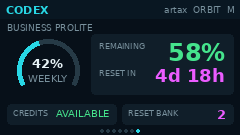
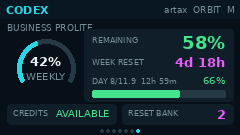
Add daily Codex usage pacing

diff --git a/jetson_stats_pitft/codex_usage.py b/jetson_stats_pitft/codex_usage.py
@@ -2,7 +2,7 @@
 
 from __future__ import annotations
 
-from dataclasses import dataclass
+from dataclasses import dataclass, replace
 import json
 import logging
 import os
@@ -36,6 +36,10 @@ class CodexUsage:
     limit_reached: str = ""
     updated_at: float = 0.0
     error: str = "waiting for Codex"
+    daily_allowance: float = 0.0
+    daily_used: float = 0.0
+    daily_percent: float = 0.0
+    daily_resets_at: float = 0.0
 
 
 def _window_label(window: dict[str, Any], fallback: str) -> str:
@@ -98,6 +102,77 @@ def parse_usage(result: dict[str, Any], now: float | None = None) -> CodexUsage:
     )
 
 
+class DailyBudgetTracker:
+    """Persist and calculate an even 24-hour budget for the weekly window."""
+
+    def __init__(self, path: Path | None = None):
+        state_root = Path(
+            os.environ.get(
+                "JETSON_PITFT_STATE_DIR",
+                Path.home() / ".local/state/jetson-stats-pitft",
+            )
+        )
+        self.path = path or state_root / "codex-daily-budget.json"
+        self._state = self._load()
+
+    def _load(self) -> dict[str, float]:
+        try:
+            data = json.loads(self.path.read_text(encoding="utf-8"))
+            if not isinstance(data, dict):
+                return {}
+            return {key: float(value) for key, value in data.items()}
+        except (OSError, ValueError, TypeError, json.JSONDecodeError):
+            return {}
+
+    def _save(self) -> None:
+        try:
+            self.path.parent.mkdir(parents=True, exist_ok=True)
+            temporary = self.path.with_suffix(".tmp")
+            temporary.write_text(
+                json.dumps(self._state, sort_keys=True) + "\n",
+                encoding="utf-8",
+            )
+            temporary.chmod(0o600)
+            os.replace(temporary, self.path)
+        except OSError as exc:
+            LOG.warning("Could not persist Codex daily budget: %s", exc)
+
+    def apply(self, usage: CodexUsage, now: float | None = None) -> CodexUsage:
+        """Attach today's spend versus an evenly divided remaining allowance."""
+        current_time = time.time() if now is None else now
+        weekly = next((window for window in usage.windows if window.label == "WEEKLY"), None)
+        if weekly is None or weekly.resets_at <= current_time:
+            return usage
+
+        state = self._state
+        same_window = abs(state.get("weekly_resets_at", 0) - weekly.resets_at) < 1
+        in_period = current_time < state.get("daily_resets_at", 0)
+        monotonic_usage = weekly.used_percent >= state.get("used_at_start", 0)
+        if not (same_window and in_period and monotonic_usage):
+            remaining_days = max(1.0, (weekly.resets_at - current_time) / 86400.0)
+            allowance = max(0.0, 100.0 - weekly.used_percent) / remaining_days
+            state = {
+                "weekly_resets_at": weekly.resets_at,
+                "daily_started_at": current_time,
+                "daily_resets_at": min(weekly.resets_at, current_time + 86400.0),
+                "used_at_start": float(weekly.used_percent),
+                "daily_allowance": allowance,
+            }
+            self._state = state
+            self._save()
+
+        daily_used = max(0.0, weekly.used_percent - state["used_at_start"])
+        allowance = state["daily_allowance"]
+        daily_percent = 100.0 * daily_used / allowance if allowance > 0 else 100.0
+        return replace(
+            usage,
+            daily_allowance=allowance,
+            daily_used=daily_used,
+            daily_percent=daily_percent,
+            daily_resets_at=state["daily_resets_at"],
+        )
+
+
 class CodexUsageReader:
     """Keep one app-server alive and refresh account usage once per minute."""
 
@@ -109,6 +184,7 @@ class CodexUsageReader:
         self._process: subprocess.Popen[str] | None = None
         self._stop = threading.Event()
         self._thread: threading.Thread | None = None
+        self._budget = DailyBudgetTracker()
 
     @staticmethod
     def _codex_binary() -> str:
@@ -188,13 +264,15 @@ class CodexUsageReader:
             self._send(process, {
                 "id": 1,
                 "method": "initialize",
-                "params": {"clientInfo": {"name": "jetson-stats-pitft", "version": "0.6.0"}},
+                "params": {"clientInfo": {"name": "jetson-stats-pitft", "version": "0.7.0"}},
             })
             self._receive(process, 1)
             request_id = 2
             while not self._stop.is_set():
                 self._send(process, {"id": request_id, "method": "account/rateLimits/read"})
-                usage = parse_usage(self._receive(process, request_id))
+                now = time.time()
+                usage = parse_usage(self._receive(process, request_id), now=now)
+                usage = self._budget.apply(usage, now=now)
                 with self._lock:
                     self._latest = usage
                 request_id += 1

diff --git a/tests/test_codex_usage.py b/tests/test_codex_usage.py
@@ -1,8 +1,15 @@
 """Tests for reducing local Codex usage responses to LCD-safe data."""
 
 import unittest
+from pathlib import Path
+import tempfile
 
-from jetson_stats_pitft.codex_usage import parse_usage
+from jetson_stats_pitft.codex_usage import (
+    CodexUsage,
+    DailyBudgetTracker,
+    UsageWindow,
+    parse_usage,
+)
 
 
 class CodexUsageTests(unittest.TestCase):
@@ -55,6 +62,68 @@ class CodexUsageTests(unittest.TestCase):
         self.assertEqual(usage.credits, "UNLIMITED")
         self.assertFalse(usage.ordinary_allowed)
         self.assertEqual(usage.limit_reached, "PRIMARY")
+
+
+class DailyBudgetTests(unittest.TestCase):
+    def _usage(self, used: int, weekly_reset: float) -> CodexUsage:
+        return CodexUsage(
+            windows=(UsageWindow("WEEKLY", used, weekly_reset),),
+            error="",
+        )
+
+    def test_divides_remaining_allowance_over_remaining_days(self) -> None:
+        with tempfile.TemporaryDirectory() as directory:
+            tracker = DailyBudgetTracker(Path(directory) / "budget.json")
+            start = 1_000_000.0
+            usage = tracker.apply(self._usage(20, start + 4 * 86400), now=start)
+
+            self.assertAlmostEqual(usage.daily_allowance, 20.0)
+            self.assertEqual(usage.daily_used, 0.0)
+            self.assertEqual(usage.daily_percent, 0.0)
+            self.assertEqual(usage.daily_resets_at, start + 86400)
+
+            usage = tracker.apply(self._usage(25, start + 4 * 86400), now=start + 3600)
+            self.assertEqual(usage.daily_used, 5.0)
+            self.assertAlmostEqual(usage.daily_percent, 25.0)
+
+    def test_persists_across_restart_and_rebalances_after_24_hours(self) -> None:
+        with tempfile.TemporaryDirectory() as directory:
+            path = Path(directory) / "budget.json"
+            start = 2_000_000.0
+            weekly_reset = start + 4 * 86400
+            DailyBudgetTracker(path).apply(self._usage(20, weekly_reset), now=start)
+
+            restarted = DailyBudgetTracker(path)
+            usage = restarted.apply(self._usage(30, weekly_reset), now=start + 3600)
+            self.assertEqual(usage.daily_used, 10.0)
+            self.assertAlmostEqual(usage.daily_percent, 50.0)
+
+            usage = restarted.apply(self._usage(30, weekly_reset), now=start + 86401)
+            remaining_days = (weekly_reset - (start + 86401)) / 86400
+            self.assertEqual(usage.daily_used, 0.0)
+            self.assertAlmostEqual(usage.daily_allowance, 70.0 / remaining_days)
+
+    def test_new_week_starts_a_new_daily_budget(self) -> None:
+        with tempfile.TemporaryDirectory() as directory:
+            tracker = DailyBudgetTracker(Path(directory) / "budget.json")
+            start = 3_000_000.0
+            old_reset = start + 2 * 86400
+            tracker.apply(self._usage(80, old_reset), now=start)
+
+            new_reset = start + 8 * 86400
+            usage = tracker.apply(self._usage(3, new_reset), now=start + 86400)
+            self.assertEqual(usage.daily_used, 0.0)
+            self.assertGreater(usage.daily_allowance, 0.0)
+
+    def test_without_weekly_window_leaves_budget_empty(self) -> None:
+        with tempfile.TemporaryDirectory() as directory:
+            tracker = DailyBudgetTracker(Path(directory) / "budget.json")
+            usage = CodexUsage(windows=(UsageWindow("5 HOUR", 10, 2000),), error="")
+
+            result = tracker.apply(usage, now=1000)
+
+            self.assertEqual(result.daily_allowance, 0.0)
+            self.assertEqual(result.daily_percent, 0.0)
 
 
 if __name__ == "__main__":

diff --git a/jetson_stats_pitft/ui.py b/jetson_stats_pitft/ui.py
@@ -329,12 +329,25 @@ class DashboardUI:
         if len(windows) == 1:
             window = windows[0]
             color = self.theme.danger if window.used_percent >= 90 else self.theme.primary
-            self._gauge(draw, (48, 70), 31, window.used_percent, color, window.label)
-            self._panel(draw, (91, 34, 233, 94))
-            draw.text((99, 41), "REMAINING", font=F8, fill=self.theme.muted)
-            draw.text((225, 38), f"{100 - window.used_percent}%", font=F24, fill=self.theme.success, anchor="ra")
-            draw.text((99, 68), "RESET IN", font=F8, fill=self.theme.muted)
-            draw.text((225, 65), _remaining(window.resets_at), font=F18, fill=self.theme.accent, anchor="ra")
+            self._gauge(draw, (46, 68), 29, window.used_percent, color, window.label)
+            self._panel(draw, (84, 29, 233, 101))
+            draw.text((92, 35), "REMAINING", font=F8, fill=self.theme.muted)
+            draw.text((225, 32), f"{100 - window.used_percent}%", font=F18, fill=self.theme.success, anchor="ra")
+            draw.text((92, 57), "WEEK RESET", font=F8, fill=self.theme.muted)
+            draw.text((225, 54), _remaining(window.resets_at), font=F13, fill=self.theme.accent, anchor="ra")
+
+            pace = usage.daily_percent
+            pace_color = self.theme.danger if pace >= 100 else (
+                self.theme.warn if pace >= 75 else self.theme.success
+            )
+            daily_reset = _remaining(usage.daily_resets_at)
+            budget = f"DAY {usage.daily_used:.0f}/{usage.daily_allowance:.1f}  {daily_reset}"
+            draw.text((92, 76), budget, font=F8, fill=self.theme.muted)
+            draw.text(
+                (225, 74), "STOP" if pace >= 100 else f"{pace:.0f}%",
+                font=F10, fill=pace_color, anchor="ra",
+            )
+            self._bar(draw, (92, 90, 225, 97), pace, pace_color)
         else:
             for index, window in enumerate(windows):
                 x = 59 + index * 120
@@ -375,5 +388,7 @@ def mock_snapshot() -> Snapshot:
             name="CODEX", plan="BUSINESS PROLITE",
             windows=(UsageWindow("WEEKLY", 42, time.time() + 4 * 86400 + 19 * 3600),),
             credits="AVAILABLE", reset_credits=2, updated_at=time.time(), error="",
+            daily_allowance=11.9, daily_used=7.8, daily_percent=65.5,
+            daily_resets_at=time.time() + 13 * 3600,
         ),
     )

diff --git a/jetson_stats_pitft/__init__.py b/jetson_stats_pitft/__init__.py
@@ -1,3 +1,3 @@
 """Jetson telemetry dashboard for the Adafruit Mini PiTFT."""
 
-__version__ = "0.6.0"
+__version__ = "0.7.0"

diff --git a/README.md b/README.md
@@ -54,6 +54,15 @@ minute, does not submit prompts or start agent turns, and never exposes or
 copies Codex credentials. The executable is discovered from `CODEX_BIN`,
 `PATH`, or the dashboard user's `~/.local/bin/codex`, in that order.
 
+For a single weekly window, the page also shows a **DAY** pacing bar. At the
+start of each 24-hour period it divides the remaining weekly percentage by the
+remaining time in 24-hour days. Usage added since that baseline is shown as a
+percentage of today's allocation: green below 75%, amber from 75–99%, and a red
+`STOP` indicator at 100%. The baseline is stored in
+`~/.local/state/jetson-stats-pitft/codex-daily-budget.json`, so restarting the
+dashboard does not reset the meter. A new weekly rollover or a lower upstream
+usage value starts a fresh budget automatically.
+
 The Deck's **TRT** row is intentionally blank while Tensor Cores are dormant.
 A yellow-and-black striped **ON** badge appears when the CUPTI PM-sampling
 sentinel observes a meaningful increase in GA10B tensor-pipeline instructions.
